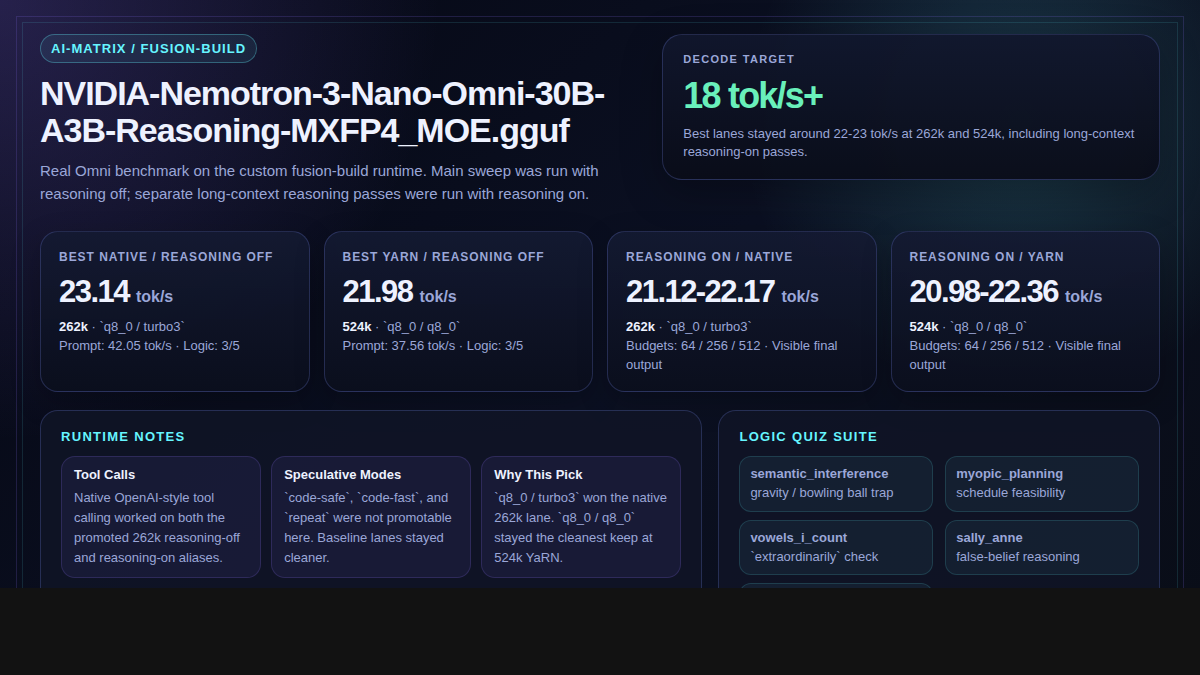
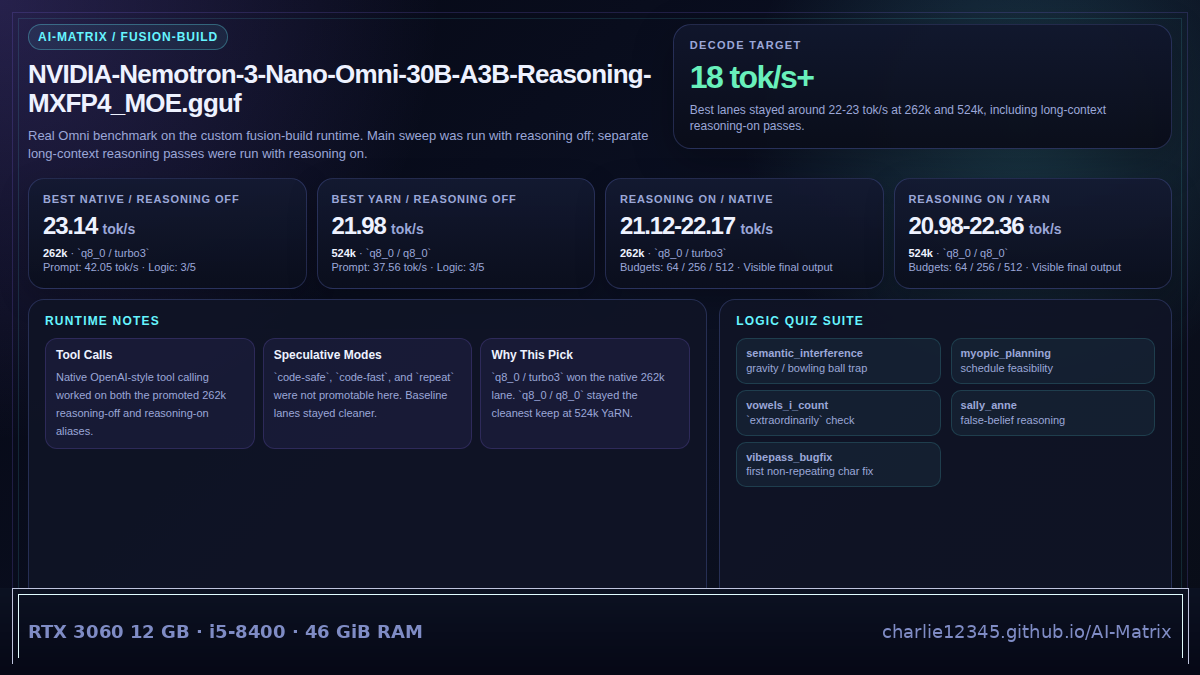
Fix Nemotron Omni Twitter card layout

diff --git a/nemotron-omni-twitter-card.html b/nemotron-omni-twitter-card.html
@@ -24,11 +24,15 @@
       box-sizing: border-box;
     }
 
+    html,
     body {
       margin: 0;
       width: 1200px;
       height: 675px;
       overflow: hidden;
+    }
+
+    body {
       font-family: "Segoe UI", "Helvetica Neue", Arial, sans-serif;
       color: var(--text);
       background:
@@ -41,40 +45,42 @@
       position: relative;
       width: 100%;
       height: 100%;
-      padding: 34px 40px 28px;
+      padding: 24px 28px 16px;
+      display: flex;
+      flex-direction: column;
     }
 
     .frame::before,
     .frame::after {
       content: "";
       position: absolute;
-      inset: 16px;
+      inset: 12px;
       border: 1px solid rgba(143, 115, 255, 0.18);
       pointer-events: none;
     }
 
     .frame::after {
-      inset: 22px;
+      inset: 18px;
       border-color: rgba(102, 245, 255, 0.12);
     }
 
     .header {
       display: flex;
       justify-content: space-between;
-      gap: 24px;
+      gap: 18px;
       align-items: flex-start;
-      margin-bottom: 26px;
+      margin-bottom: 14px;
     }
 
     .eyebrow {
       display: inline-block;
-      margin-bottom: 12px;
-      padding: 6px 10px;
+      margin-bottom: 10px;
+      padding: 5px 9px;
       border-radius: 999px;
       color: var(--cyan);
       border: 1px solid rgba(102, 245, 255, 0.3);
       background: rgba(102, 245, 255, 0.08);
-      font-size: 13px;
+      font-size: 12px;
       font-weight: 700;
       letter-spacing: 0.08em;
       text-transform: uppercase;
@@ -82,24 +88,24 @@
 
     h1 {
       margin: 0;
-      max-width: 760px;
-      font-size: 34px;
-      line-height: 1.08;
+      max-width: 720px;
+      font-size: 26px;
+      line-height: 1.1;
       letter-spacing: -0.03em;
     }
 
     .subhead {
-      margin-top: 12px;
-      max-width: 760px;
+      margin-top: 10px;
+      max-width: 720px;
       color: var(--muted);
-      font-size: 15px;
-      line-height: 1.5;
+      font-size: 13px;
+      line-height: 1.4;
     }
 
     .goal {
-      min-width: 236px;
-      padding: 18px 20px;
-      border-radius: 20px;
+      min-width: 320px;
+      padding: 14px 16px;
+      border-radius: 18px;
       background: linear-gradient(180deg, rgba(17, 23, 45, 0.95), rgba(10, 13, 25, 0.95));
       border: 1px solid var(--line);
       box-shadow: 0 12px 40px rgba(0, 0, 0, 0.26);
@@ -114,30 +120,30 @@
     }
 
     .goal-value {
-      margin-top: 10px;
-      font-size: 36px;
+      margin-top: 8px;
+      font-size: 32px;
       font-weight: 800;
       color: var(--mint);
       letter-spacing: -0.05em;
     }
 
     .goal-note {
-      margin-top: 8px;
+      margin-top: 6px;
       color: var(--muted);
-      font-size: 13px;
-      line-height: 1.4;
+      font-size: 12px;
+      line-height: 1.35;
     }
 
     .grid {
       display: grid;
       grid-template-columns: repeat(4, minmax(0, 1fr));
-      gap: 14px;
-      margin-bottom: 18px;
+      gap: 10px;
+      margin-bottom: 10px;
     }
 
     .tile {
-      padding: 18px 18px 16px;
-      border-radius: 18px;
+      padding: 14px 14px 13px;
+      border-radius: 16px;
       background: linear-gradient(180deg, rgba(20, 26, 50, 0.92), rgba(11, 15, 29, 0.96));
       border: 1px solid var(--line);
       box-shadow: 0 10px 30px rgba(0, 0, 0, 0.22);
@@ -145,31 +151,31 @@
 
     .tile .label {
       color: var(--muted);
-      font-size: 12px;
+      font-size: 11px;
       letter-spacing: 0.08em;
       text-transform: uppercase;
       font-weight: 700;
     }
 
     .tile .metric {
-      margin-top: 10px;
-      font-size: 31px;
+      margin-top: 7px;
+      font-size: 24px;
       font-weight: 800;
       letter-spacing: -0.05em;
     }
 
     .tile .metric span {
       color: var(--muted);
-      font-size: 16px;
+      font-size: 14px;
       font-weight: 600;
       letter-spacing: 0;
     }
 
     .tile .meta {
-      margin-top: 8px;
+      margin-top: 6px;
       color: var(--muted);
-      font-size: 13px;
-      line-height: 1.45;
+      font-size: 11px;
+      line-height: 1.35;
     }
 
     .tile strong {
@@ -180,20 +186,23 @@
     .bottom {
       display: grid;
       grid-template-columns: 1.5fr 1fr;
-      gap: 16px;
+      gap: 12px;
+      flex: 1;
+      min-height: 0;
     }
 
     .panel {
-      padding: 18px 20px;
-      border-radius: 18px;
+      padding: 14px 16px;
+      border-radius: 16px;
       background: var(--panel);
       border: 1px solid var(--line);
+      overflow: hidden;
     }
 
     .panel-title {
-      margin: 0 0 12px;
+      margin: 0 0 10px;
       color: var(--cyan);
-      font-size: 13px;
+      font-size: 12px;
       letter-spacing: 0.1em;
       text-transform: uppercase;
     }
@@ -201,55 +210,52 @@
     .facts {
       display: grid;
       grid-template-columns: repeat(3, minmax(0, 1fr));
-      gap: 10px;
+      gap: 8px;
     }
 
     .fact {
-      padding: 10px 12px;
-      border-radius: 14px;
+      padding: 9px 10px;
+      border-radius: 12px;
       background: rgba(143, 115, 255, 0.08);
       border: 1px solid rgba(143, 115, 255, 0.18);
-      min-height: 86px;
+      min-height: 72px;
     }
 
     .fact b {
       display: block;
-      margin-bottom: 6px;
-      font-size: 13px;
+      margin-bottom: 5px;
+      font-size: 12px;
       color: var(--text);
     }
 
     .fact span {
-      font-size: 13px;
-      line-height: 1.45;
+      font-size: 11px;
+      line-height: 1.35;
       color: var(--muted);
     }
 
     .logic-list {
       display: grid;
       grid-template-columns: 1fr 1fr;
-      gap: 8px 12px;
+      gap: 6px 10px;
       color: var(--muted);
-      font-size: 13px;
-      line-height: 1.45;
+      font-size: 11px;
+      line-height: 1.35;
     }
 
     .logic-list div {
-      padding: 8px 10px;
-      border-radius: 12px;
+      padding: 7px 9px;
+      border-radius: 10px;
       background: rgba(102, 245, 255, 0.06);
       border: 1px solid rgba(102, 245, 255, 0.14);
     }
 
     .footer {
-      position: absolute;
-      left: 40px;
-      right: 40px;
-      bottom: 20px;
+      margin-top: 8px;
       display: flex;
       justify-content: space-between;
       color: #7f8cc5;
-      font-size: 12px;
+      font-size: 10px;
       letter-spacing: 0.04em;
       text-transform: uppercase;
     }
